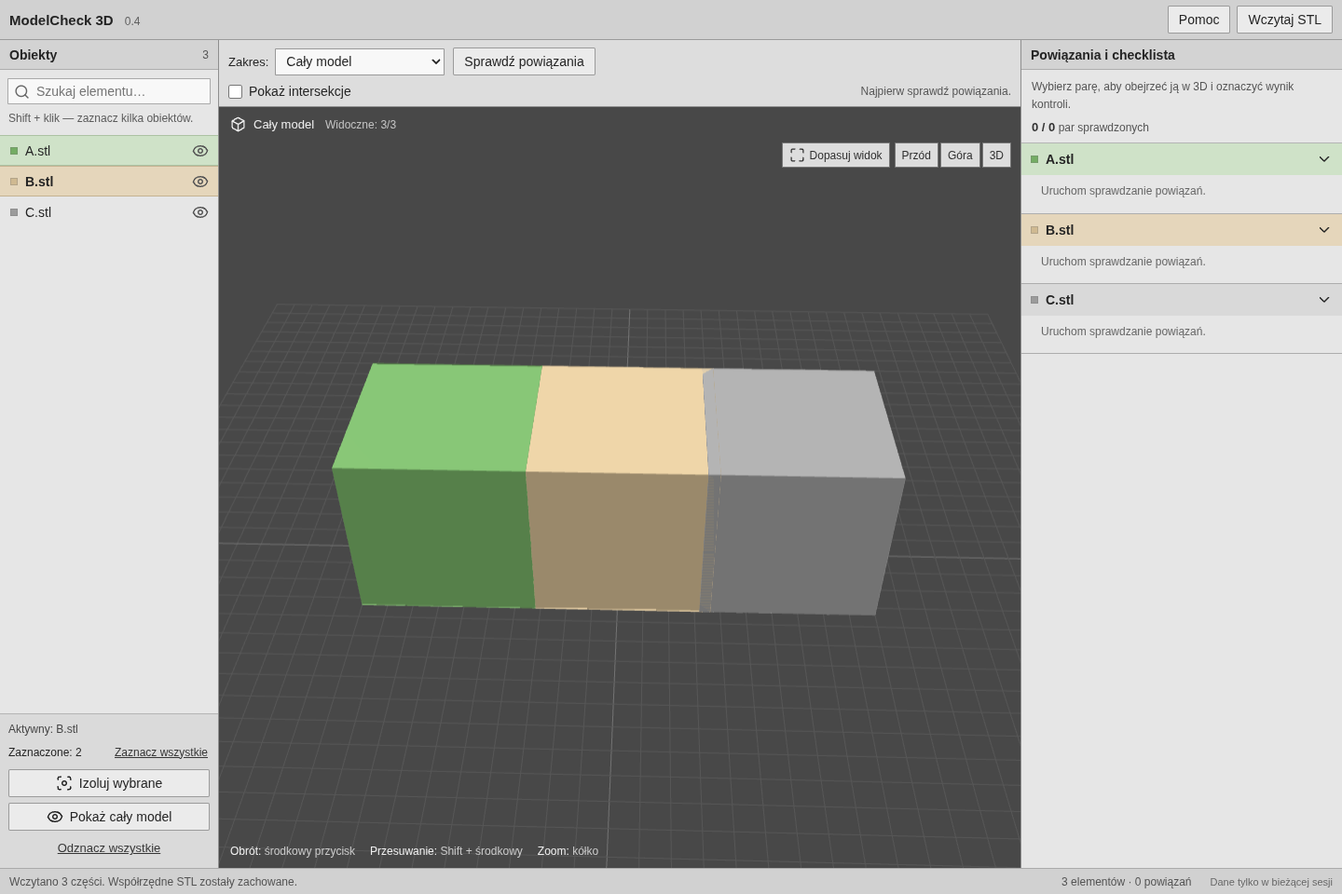
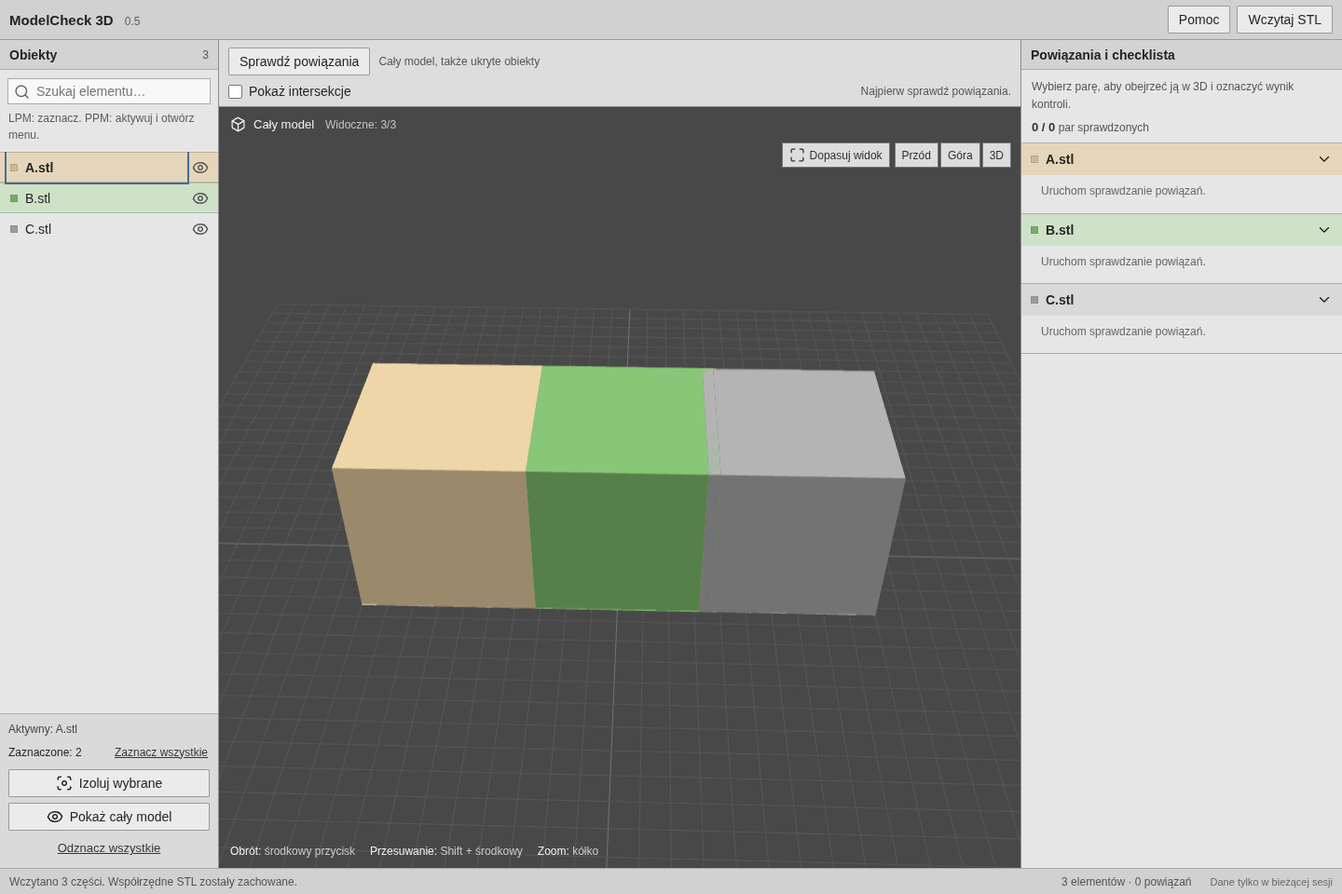
Activate objects with right click and analyze the entire model

Changed region(s): [[0.25, 0.4062, 0.5312, 0.6875], [0.0, 0.125, 0.1875, 0.25], [0.1562, 0.0312, 0.4375, 0.0938]]

diff --git a/frontend/src/App.tsx b/frontend/src/App.tsx
@@ -38,7 +38,6 @@ export default function App() {
   const activePartId = selection.activeId;
   const [isolated, setIsolated] = useState<string[] | null>(null);
   const [activePair, setActivePair] = useState<string | null>(null);
-  const [scope, setScope] = useState<'all' | 'selected'>('all');
   const [job, setJob] = useState<Job | null>(null);
   const [loading, setLoading] = useState(false);
   const [loaded, setLoaded] = useState(0);
@@ -58,7 +57,6 @@ export default function App() {
   const relevant = relations.filter(relation => relation.kind !== 'DISCONNECTED');
   const reviewed = relevant.filter(relation => relation.status !== 'TODO').length;
   const active = relations.find(relation => relation.id === activePair);
-  const overlayRelations = scope === 'all' ? relations : relations.filter(relation => relation.part_ids.every(id => selected.includes(id)));
 
   useEffect(() => {
     api<{ id: string }>('/sessions', { method: 'POST' }).then(result => setSession(result.id)).catch(err => setError(err.message));
@@ -128,7 +126,7 @@ export default function App() {
     setLoading(true); setError(''); setNotice('');
     try {
       await reviewQueue.current;
-      const result = await api<Job>(`/sessions/${session}/analysis`, { method: 'POST', headers: { 'Content-Type': 'application/json' }, body: JSON.stringify({ part_ids: scope === 'selected' ? selected : null }) });
+      const result = await api<Job>(`/sessions/${session}/analysis`, { method: 'POST', headers: { 'Content-Type': 'application/json' }, body: JSON.stringify({}) });
       // Always poll once: a small model can finish before POST returns.
       setJob({ ...result, state: 'running' });
     } catch (err) { setError((err as Error).message); }
@@ -136,19 +134,17 @@ export default function App() {
   }
   function select(id: string | null, multi: boolean) {
     setActivePair(null);
-    if (!id) { if (!multi) setSelection({ ids: [], activeId: null }); return; }
+    if (!id) { if (!multi) setSelection(previous => ({ ...previous, ids: [] })); return; }
     if (isolated && !isolated.includes(id)) setIsolated(null);
     setExpanded(previous => new Set([...previous, id]));
     requestAnimationFrame(() => document.getElementById(`check-${id}`)?.scrollIntoView({ block: 'nearest' }));
     setSelection(previous => {
-      if (!multi) return { ids: [id], activeId: id };
-      if (!previous.ids.includes(id)) return { ids: [...previous.ids, id], activeId: id };
-      const ids = previous.ids.filter(item => item !== id);
-      return { ids, activeId: previous.activeId === id ? ids.at(-1) ?? null : previous.activeId };
+      const ids = !multi ? [id] : previous.ids.includes(id) ? previous.ids.filter(item => item !== id) : [...previous.ids, id];
+      return { ...previous, ids };
     });
   }
-  function focusPair(relation: Relation, clickedId: string) {
-    setActivePair(relation.id); setSelection({ ids: relation.part_ids, activeId: clickedId }); setIsolated(relation.part_ids);
+  function focusPair(relation: Relation) {
+    setActivePair(relation.id); setSelection(previous => ({ ...previous, ids: relation.part_ids })); setIsolated(relation.part_ids);
     setParts(previous => previous.map(part => relation.part_ids.includes(part.id) ? { ...part, visible: true } : part));
     requestAnimationFrame(() => viewer.current?.fit(relation.part_ids));
   }
@@ -164,7 +160,7 @@ export default function App() {
       setRelations(previous => previous.filter(relation => !relation.part_ids.includes(id)));
       setSelection(previous => {
         const ids = previous.ids.filter(pid => pid !== id);
-        return { ids, activeId: previous.activeId === id ? ids.at(-1) ?? null : previous.activeId };
+        return { ids, activeId: previous.activeId === id ? null : previous.activeId };
       });
       setIsolated(null); setActivePair(null); setLoaded(previous => Math.max(0, previous - 1));
       setNotice('Usunięto element z modelu.');
@@ -202,7 +198,7 @@ export default function App() {
     <input type="file" ref={fileInput} accept=".stl" multiple hidden onChange={event => { if (event.target.files) void importFiles(event.target.files); }} />
 
     <header className="topbar">
-      <div className="brand"><strong>ModelCheck 3D</strong><span className="app-version">0.4</span></div>
+      <div className="brand"><strong>ModelCheck 3D</strong><span className="app-version">0.5</span></div>
       <div className="header-actions">
         <button className="button secondary help-button" onClick={() => setHelp(true)}>Pomoc</button>
         <button className="button primary" disabled={busy || !session} onClick={() => fileInput.current?.click()}>Wczytaj STL</button>
@@ -213,7 +209,7 @@ export default function App() {
       <aside className="objects panel" aria-label="Lista elementów">
         <div className="panel-heading"><h2>Obiekty</h2><span className="count">{parts.length}</span></div>
         <label className="panel-search"><Search size={17} /><input aria-label="Szukaj elementu" placeholder="Szukaj elementu…" value={search} onChange={event => setSearch(event.target.value)} /></label>
-        <p className="selection-hint">Shift + klik — zaznacz kilka obiektów.</p>
+        <p className="selection-hint">LPM: zaznacz. PPM: aktywuj i otwórz menu.</p>
         <div className="object-list">
           {!parts.length && <p className="empty-note">Wczytane pliki STL pojawią się tutaj.</p>}
           {parts.filter(part => part.name.toLowerCase().includes(search.toLowerCase())).map(part => {
@@ -221,12 +217,14 @@ export default function App() {
             return <div key={part.id} className={`object-row ${selected.includes(part.id) ? 'selected' : ''} ${activePartId === part.id ? 'active-part' : ''} ${!visible ? 'muted' : ''}`} data-selection={activePartId === part.id ? 'active' : selected.includes(part.id) ? 'selected' : 'idle'}
               onContextMenu={event => {
                 event.preventDefault();
+                setSelection(previous => ({ ...previous, activeId: part.id }));
                 setObjectMenu({ id: part.id, x: event.clientX, y: event.clientY, trigger: event.currentTarget.querySelector<HTMLButtonElement>('.object-select') });
               }}
               onKeyDown={event => {
                 if (event.key === 'ContextMenu' || (event.shiftKey && event.key === 'F10')) {
                   event.preventDefault();
                   const bounds = event.currentTarget.getBoundingClientRect();
+                  setSelection(previous => ({ ...previous, activeId: part.id }));
                   setObjectMenu({ id: part.id, x: bounds.left + 20, y: bounds.bottom, trigger: event.currentTarget.querySelector<HTMLButtonElement>('.object-select') });
                 }
               }}>
@@ -242,18 +240,17 @@ export default function App() {
         </div>
         <div className="selection-tools">
           <p className="active-object" title={parts.find(part => part.id === activePartId)?.name}>Aktywny: {parts.find(part => part.id === activePartId)?.name ?? '—'}</p>
-          <div className="selection-summary"><strong>Zaznaczone: {selected.length}</strong><button className="text-button" disabled={!parts.length} onClick={() => setSelection(previous => ({ ids: parts.map(part => part.id), activeId: previous.activeId ?? parts.at(-1)?.id ?? null }))}>Zaznacz wszystkie</button></div>
+          <div className="selection-summary"><strong>Zaznaczone: {selected.length}</strong><button className="text-button" disabled={!parts.length} onClick={() => setSelection(previous => ({ ...previous, ids: parts.map(part => part.id) }))}>Zaznacz wszystkie</button></div>
           <button className="button secondary wide" disabled={!selected.length} onClick={fitSelected}><Focus size={18} />Izoluj wybrane</button>
           <button className="button secondary wide" disabled={!parts.length} onClick={showAll}><Eye size={18} />Pokaż cały model</button>
-          {selected.length > 0 && <button className="text-button wide" onClick={() => { setSelection({ ids: [], activeId: null }); setActivePair(null); }}>Odznacz wszystkie</button>}
+          {selected.length > 0 && <button className="text-button wide" onClick={() => { setSelection(previous => ({ ...previous, ids: [] })); setActivePair(null); }}>Odznacz wszystkie</button>}
         </div>
       </aside>
 
       <section className="center" aria-label="Analiza i widok 3D">
         <section className="analysis-panel">
           <div className="analysis-controls">
-            <label className="scope-control"><span>Zakres:</span><select aria-label="Zakres sprawdzania" value={scope} disabled={busy} onChange={event => setScope(event.target.value as 'all' | 'selected')}><option value="all">Cały model</option><option value="selected">Zaznaczone ({selected.length})</option></select></label>
-            <button className="button primary analyze-button" disabled={busy || !session || (scope === 'all' ? parts.length : selected.length) < 2} onClick={() => void analyze()}>{busy && <LoaderCircle size={16} className="spin" />}{job?.state === 'running' ? 'Sprawdzanie…' : 'Sprawdź powiązania'}</button>
+            <button className="button primary analyze-button" disabled={busy || !session || parts.length < 2} onClick={() => void analyze()}>{busy && <LoaderCircle size={16} className="spin" />}{job?.state === 'running' ? 'Sprawdzanie…' : 'Sprawdź powiązania'}</button><span className="analysis-scope-note">Cały model, także ukryte obiekty</span>
           </div>
           <div className="analysis-result">
             <label className={`intersection-toggle ${intersections ? 'enabled' : ''}`}><input type="checkbox" checked={intersections} disabled={!parts.length} onChange={event => setIntersections(event.target.checked)} /><span>Pokaż intersekcje</span></label>
@@ -263,7 +260,7 @@ export default function App() {
         </section>
 
         <div className="viewport">
-          <Viewer ref={viewer} session={session} parts={parts} relations={overlayRelations} selected={selected} activePartId={activePartId} isolated={isolated} intersections={intersections} onSelect={select} onError={setError} onLoaded={setLoaded} />
+          <Viewer ref={viewer} session={session} parts={parts} relations={relations} selected={selected} activePartId={activePartId} isolated={isolated} intersections={intersections} onSelect={select} onError={setError} onLoaded={setLoaded} />
           <div className="scene-label"><Box size={17} /><strong>{isolated ? 'Wybrane elementy' : 'Cały model'}</strong><span>Widoczne: {parts.filter(part => part.visible && (!isolated || isolated.includes(part.id))).length}/{parts.length}</span></div>
           <div className="view-controls"><button title="Dopasuj kamerę do widocznych części" onClick={() => viewer.current?.fit()}><Maximize size={17} />Dopasuj widok</button><div className="axis-controls"><button title="Widok z przodu" onClick={() => viewer.current?.view('y')}>Przód</button><button title="Widok z góry" onClick={() => viewer.current?.view('z')}>Góra</button><button title="Widok perspektywiczny" onClick={() => viewer.current?.view('perspective')}>3D</button></div></div>
           {!parts.length && <div className="welcome"><h1>Brak modelu</h1><p>Wczytaj pliki STL lub przeciągnij je do okna.</p><button className="button primary" disabled={busy || !session} onClick={() => fileInput.current?.click()}>Wybierz pliki STL</button><button className="text-button" disabled={busy || !session} onClick={() => void demo()}>Wypróbuj przykład A / B / C</button></div>}
@@ -293,7 +290,7 @@ export default function App() {
                 {rows.length > 0 && <p className="relation-list-label">{rows.some(row => row.kind === 'UNCERTAIN') ? 'Powiązania i pary do weryfikacji:' : 'Powiązany z:'}</p>}
                 {rows.map(row => {
                   const other = parts.find(item => item.id === row.part_ids.find(id => id !== part.id));
-                  return <button key={row.id} className={`relation-row ${activePair === row.id ? 'active' : ''}`} onClick={() => focusPair(row, other?.id ?? row.part_ids[1])}>
+                  return <button key={row.id} className={`relation-row ${activePair === row.id ? 'active' : ''}`} onClick={() => focusPair(row)}>
                     <div className="relation-title"><strong title={other?.name}>{other?.name}{other ? duplicateName(other) : ''}</strong><span className={`relation-kind ${row.kind.toLowerCase()}`}>{labels[row.kind]}</span></div>
                     <div className={`review-status ${row.status.toLowerCase()}`}>{row.status === 'OK' ? <Check size={15} /> : row.status === 'FIX' ? <TriangleAlert size={15} /> : <span className="status-circle" />}{statusLabel[row.status]}<ChevronRight size={16} /></div>
                   </button>;
@@ -312,6 +309,6 @@ export default function App() {
     {objectMenu && parts.some(part => part.id === objectMenu.id) && <ObjectMenu menu={objectMenu} name={parts.find(part => part.id === objectMenu.id)!.name} disabled={!!busy} onClose={() => setObjectMenu(null)} onDelete={() => void removePart(objectMenu.id)} />}
     {error && <div className="error-message" role="alert"><TriangleAlert size={20} /><span>{error}</span><button className="icon-button" title="Zamknij komunikat" onClick={() => setError('')}><X size={20} /></button></div>}
     {dragging && <div className="drop-overlay"><h2>Upuść pliki STL</h2><p>Każdy plik to osobny element modelu.</p></div>}
-    {help && <div className="modal-backdrop" onClick={() => setHelp(false)}><section className="help-dialog" role="dialog" aria-modal="true" aria-label="Jak obsługiwać aplikację" onClick={event => event.stopPropagation()}><button className="icon-button close-modal" title="Zamknij pomoc" onClick={() => setHelp(false)}><X size={22} /></button><h2>Jak sprawdzić model?</h2><ol><li>Wczytaj osobne pliki STL. Elementy pozostają w oryginalnym położeniu.</li><li>Kliknij <strong>Sprawdź powiązania</strong>. Lista po prawej pokaże, które części są ze sobą powiązane.</li><li>Włącz <strong>Pokaż intersekcje</strong>, aby zobaczyć na czerwono miejsca przenikania.</li><li>Kliknij powiązaną część na checkliście. Obejrzysz parę w 3D, wybierzesz ocenę i dodasz notatkę.</li></ol><h3>Sterowanie jak w Blenderze</h3><dl><dt>Środkowy przycisk myszy</dt><dd>Obrót</dd><dt>Shift + środkowy przycisk</dt><dd>Przesuwanie</dd><dt>Kółko</dt><dd>Zoom</dd><dt>Shift + klik</dt><dd>Wybór wielu części</dd></dl><p>Analiza całego modelu obejmuje także ukryte części. Wybrany zakres porównuje tylko zaznaczone części między sobą.</p><p>Powiązanie oznacza, że części bezpośrednio się łączą. Intersekcja oznacza, że jedna część wchodzi w drugą. O poprawności decydujesz sam.</p><div className="help-note"><CircleAlert size={20} /><span>Pracujemy w milimetrach. Odświeżenie strony usuwa bieżącą sesję; zapis projektu nie jest jeszcze dostępny.</span></div><button className="button primary wide" onClick={() => setHelp(false)}>Rozumiem</button></section></div>}
+    {help && <div className="modal-backdrop" onClick={() => setHelp(false)}><section className="help-dialog" role="dialog" aria-modal="true" aria-label="Jak obsługiwać aplikację" onClick={event => event.stopPropagation()}><button className="icon-button close-modal" title="Zamknij pomoc" onClick={() => setHelp(false)}><X size={22} /></button><h2>Jak sprawdzić model?</h2><ol><li>Wczytaj osobne pliki STL. Elementy pozostają w oryginalnym położeniu.</li><li>Kliknij <strong>Sprawdź powiązania</strong>. Lista po prawej pokaże, które części są ze sobą powiązane.</li><li>Włącz <strong>Pokaż intersekcje</strong>, aby zobaczyć na czerwono miejsca przenikania.</li><li>Kliknij powiązaną część na checkliście. Obejrzysz parę w 3D, wybierzesz ocenę i dodasz notatkę.</li></ol><h3>Sterowanie jak w Blenderze</h3><dl><dt>Środkowy przycisk myszy</dt><dd>Obrót</dd><dt>Shift + środkowy przycisk</dt><dd>Przesuwanie</dd><dt>Kółko</dt><dd>Zoom</dd><dt>Shift + klik</dt><dd>Wybór wielu części</dd></dl><p>Analiza zawsze obejmuje wszystkie wczytane części, także ukryte. Zaznaczenie i izolacja zmieniają tylko widok.</p><p>LPM zaznacza części. PPM na lewej liście aktywuje obiekt i oznacza go beżowo także w 3D. Inne zaznaczone części są zielone, pozostałe szare.</p><p>Powiązanie oznacza, że części bezpośrednio się łączą. Intersekcja oznacza, że jedna część wchodzi w drugą. O poprawności decydujesz sam.</p><div className="help-note"><CircleAlert size={20} /><span>Pracujemy w milimetrach. Odświeżenie strony usuwa bieżącą sesję; zapis projektu nie jest jeszcze dostępny.</span></div><button className="button primary wide" onClick={() => setHelp(false)}>Rozumiem</button></section></div>}
   </div>;
 }

diff --git a/frontend/tests/workflow.spec.ts b/frontend/tests/workflow.spec.ts
@@ -1,6 +1,6 @@
 import { test, expect } from '@playwright/test';
 
-test('model ABC: render, analyze, inspect, review and scope', async ({ page }, testInfo) => {
+test('model ABC: full analysis and independent viewport selection and list activation', async ({ page }, testInfo) => {
   const errors: string[] = [];
   page.on('pageerror', error => errors.push(error.message));
   await page.goto('/');
@@ -45,10 +45,15 @@ test('model ABC: render, analyze, inspect, review and scope', async ({ page }, t
   await a.locator('.object-select').click();
   await b.locator('.object-select').click({ modifiers: ['Shift'] });
   await expect(a).toHaveAttribute('data-selection', 'selected');
-  await expect(b).toHaveAttribute('data-selection', 'active');
+  await expect(b).toHaveAttribute('data-selection', 'selected');
+  await expect(page.locator('.object-row[data-selection=active]')).toHaveCount(0);
+  await a.click({ button: 'right' });
+  await page.keyboard.press('Escape');
+  await expect(a).toHaveAttribute('data-selection', 'active');
+  await expect(b).toHaveAttribute('data-selection', 'selected');
   await expect(c).toHaveAttribute('data-selection', 'idle');
-  await expect(a.locator('.part-swatch')).toHaveCSS('background-color', 'rgb(116, 172, 100)');
-  await expect(b.locator('.part-swatch')).toHaveCSS('background-color', 'rgb(207, 185, 145)');
+  await expect(a.locator('.part-swatch')).toHaveCSS('background-color', 'rgb(207, 185, 145)');
+  await expect(b.locator('.part-swatch')).toHaveCSS('background-color', 'rgb(116, 172, 100)');
   await expect(c.locator('.part-swatch')).toHaveCSS('background-color', 'rgb(155, 155, 155)');
   await page.screenshot({ path: testInfo.outputPath('selection.png') });
   await page.getByRole('button', { name: 'Sprawdź powiązania' }).click();
@@ -85,11 +90,27 @@ test('model ABC: render, analyze, inspect, review and scope', async ({ page }, t
   // Hidden A must still be included in the full analysis.
   await expect(page.locator('.statusbar')).toContainText('Sprawdzono par: 3');
   await expect(page.locator('.review-progress strong')).toHaveText('1 / 2');
-  await page.getByLabel('Zakres sprawdzania', { exact: true }).selectOption('selected');
+  await expect(page.getByLabel('Zakres sprawdzania', { exact: true })).toHaveCount(0);
   await page.getByRole('button', { name: 'Sprawdź powiązania' }).click();
-  await expect(page.getByRole('status')).toContainText('Sprawdzono par: 1');
+  await expect(page.getByRole('status')).toContainText('Sprawdzono par: 3');
   await expect(page.locator('.relation-row')).toHaveCount(4);
   await expect(page.getByRole('checkbox')).toHaveCount(1);
+  // Even with only one selected element, the action still checks all three pairs.
+  await b.locator('.object-select').click();
+  await expect(a).toHaveAttribute('data-selection', 'active');
+  await expect(b).toHaveAttribute('data-selection', 'selected');
+  await expect(page.locator('.object-row.selected')).toHaveCount(1);
+  await page.getByRole('button', { name: 'Sprawdź powiązania' }).click();
+  await expect(page.getByRole('status')).toContainText('Sprawdzono par: 3');
+  // A click on the actual 3D object selects it without changing the right-click activation.
+  await page.getByRole('button', { name: 'Izoluj wybrane' }).click();
+  await page.getByRole('button', { name: 'Odznacz wszystkie', exact: true }).click();
+  await expect(page.locator('.object-row.selected')).toHaveCount(0);
+  const objectCanvasBounds = (await canvas.boundingBox())!;
+  await canvas.click({ position: { x: objectCanvasBounds.width / 2, y: objectCanvasBounds.height / 2 } });
+  await expect(b.locator('.object-select')).toHaveAttribute('aria-pressed', 'true');
+  await expect(b).toHaveAttribute('data-selection', 'selected');
+  await expect(a).toHaveAttribute('data-selection', 'active');
   expect(errors).toEqual([]);
 });
 
@@ -118,10 +139,10 @@ test('separated parts are not proposed as related; all elements remain on checkl
   const left = page.locator('.object-row').filter({ hasText: 'left.stl' });
   const right = page.locator('.object-row').filter({ hasText: 'right.stl' });
   await expect(left).toHaveAttribute('data-selection', 'selected');
-  await expect(right).toHaveAttribute('data-selection', 'active');
+  await expect(right).toHaveAttribute('data-selection', 'selected');
   await left.locator('.object-select').click({ modifiers: ['Shift'] });
   await expect(left).toHaveAttribute('data-selection', 'idle');
-  await expect(right).toHaveAttribute('data-selection', 'active');
+  await expect(right).toHaveAttribute('data-selection', 'selected');
   await right.locator('.object-select').click({ modifiers: ['Shift'] });
   await expect(page.locator('.object-row[data-selection=active]')).toHaveCount(0);
   await expect(page.locator('.object-row[data-selection=idle]')).toHaveCount(3);
@@ -130,9 +151,9 @@ test('separated parts are not proposed as related; all elements remain on checkl
   await page.getByRole('button', { name: 'Izoluj wybrane' }).click();
   await expect(page.locator('.scene-label')).toContainText('Widoczne: 2/3');
   await page.getByRole('button', { name: 'Pokaż cały model', exact: true }).click();
-  await page.getByLabel('Zakres sprawdzania', { exact: true }).selectOption('selected');
+  await expect(page.getByLabel('Zakres sprawdzania', { exact: true })).toHaveCount(0);
   await page.getByRole('button', { name: 'Sprawdź powiązania' }).click();
-  await expect(page.getByRole('status')).toContainText('Sprawdzono par: 1');
+  await expect(page.getByRole('status')).toContainText('Sprawdzono par: 3');
   // The object list has a name and a visibility button only, with no inline delete action.
   await expect(page.locator('.object-row button')).toHaveCount(6);
   await expect(page.locator('.object-row').getByTitle(/^Usuń/)).toHaveCount(0);
@@ -159,12 +180,13 @@ test('separated parts are not proposed as related; all elements remain on checkl
   await expect(page.getByRole('menu')).toHaveCount(0);
   await expect(page.locator('.object-row')).toHaveCount(2);
   await expect(page.locator('.check-part')).toHaveCount(2);
-  await expect(right).toHaveAttribute('data-selection', 'active');
-  // Deleting the active object promotes another selected object; clearing leaves no active object.
+  await expect(right).toHaveAttribute('data-selection', 'selected');
+  // Only right-click activates; deleting the active object does not activate another one.
   await right.click({ button: 'right' });
   await page.getByRole('menu', { name: 'Opcje elementu right.stl' }).getByRole('menuitem', { name: 'Usuń', exact: true }).click();
   await expect(page.locator('.object-row')).toHaveCount(1);
-  await expect(left).toHaveAttribute('data-selection', 'active');
+  await expect(left).toHaveAttribute('data-selection', 'selected');
+  await expect(page.locator('.object-row[data-selection=active]')).toHaveCount(0);
   await page.getByRole('button', { name: 'Odznacz wszystkie', exact: true }).click();
   await expect(left).toHaveAttribute('data-selection', 'idle');
 });

diff --git a/frontend/src/style.css b/frontend/src/style.css
@@ -63,10 +63,8 @@ h2 { font-size: 14px; font-weight: 600; }
 .center { display: flex; flex-direction: column; min-width: 0; min-height: 0; }
 .analysis-panel { padding: 8px 10px; background: #ddd; border-bottom: 1px solid #8e8e8e; flex-shrink: 0; }
 .analysis-controls { display: flex; gap: 9px; align-items: center; flex-wrap: wrap; }
-.scope-control { display: flex; gap: 7px; align-items: center; }
-.scope-control > span { font-size: 13px; }
 select { background: #f8f8f8; border: 1px solid #999; border-radius: 1px; min-height: 29px; padding: 3px 23px 3px 7px; }
-.scope-control select { width: 182px; }
+.analysis-scope-note { font-size: 12px; color: #565656; }
 .analysis-result { margin-top: 9px; display: flex; align-items: center; justify-content: space-between; gap: 9px; flex-wrap: wrap; }
 .intersection-toggle { display: inline-flex; gap: 7px; align-items: center; cursor: pointer; }
 input[type=checkbox] { width: 15px; height: 15px; margin: 0; accent-color: #5b5b5b; }
@@ -161,7 +159,6 @@ progress { display: block; width: 100%; height: 7px; margin-top: 8px; accent-col
 @media (max-width: 1150px) {
   .workspace { grid-template-columns: 210px minmax(380px, 1fr) 320px; }
   .analysis-controls { gap: 6px; }
-  .scope-control select { width: 148px; }
   .analyze-button { padding: 5px 7px; font-size: 13px; }
   .session-note { display: none; }
   .camera-hint { gap: 5px 10px; font-size: 11px; }

diff --git a/backend/tests/test_api.py b/backend/tests/test_api.py
@@ -39,13 +39,13 @@ def test_demo_analysis_review_isolation_and_delete():
     data = client.get(path + '/intersection')
     mesh = trimesh.load(io.BytesIO(data.content), file_type='stl')
     assert mesh.volume == pytest.approx(32)
-    selected = analyze(sid, {'part_ids': [parts[1]['id'], parts[2]['id']]})
-    assert selected['job']['total'] == 1
-    row = next(row for row in selected['relations'] if row['id'] == intersection['id'])
+    reanalyzed = analyze(sid)
+    assert reanalyzed['job']['total'] == 3
+    row = next(row for row in reanalyzed['relations'] if row['id'] == intersection['id'])
     assert row['note'] == 'Zmniejszyć przenikanie'
     assert row['status'] == 'FIX'
-    # Results of unrelated pairs are retained; each still has a single shared status.
-    assert len(selected['relations']) == 3
+    # A full re-analysis retains one shared review record for each unique pair.
+    assert len(reanalyzed['relations']) == 3
     assert client.delete(f"/api/sessions/{sid}/parts/{parts[2]['id']}").status_code == 200
     assert len(client.get(f'/api/sessions/{sid}/analysis').json()['relations']) == 1
 
@@ -69,7 +69,7 @@ def test_invalid_selection_and_removed_analysis_setting():
     sid = session()
     assert client.post(f'/api/sessions/{sid}/analysis', json={}).status_code == 400
     assert client.post(f'/api/sessions/{sid}/analysis', json={'gap': -1}).status_code == 422
-    assert client.post(f'/api/sessions/{sid}/analysis', json={'part_ids': ['unknown', 'other']}).status_code == 404
+    assert client.post(f'/api/sessions/{sid}/analysis', json={'part_ids': ['unknown', 'other']}).status_code == 422
     assert client.get('/api/sessions/missing/analysis').status_code == 404
 
 

diff --git a/backend/main.py b/backend/main.py
@@ -14,7 +14,7 @@ from starlette.concurrency import run_in_threadpool
 from pydantic import BaseModel, Field, ConfigDict
 from backend.geometry import prepare, analyze_pair, CONNECTION_EPS
 
-app = FastAPI(title='ModelCheck 3D', version='0.4.0')
+app = FastAPI(title='ModelCheck 3D', version='0.5.0')
 executor = ThreadPoolExecutor(max_workers=1)
 sessions = {}
 lock = RLock()
@@ -22,7 +22,6 @@ LIMIT = 100 * 1024 * 1024
 
 
 class AnalysisRequest(BaseModel):
-    part_ids: list[str] | None = None
     model_config = ConfigDict(extra='forbid')
 
 
@@ -175,11 +174,9 @@ def run_analysis(session, ids, job):
 def start_analysis(sid: str, request: AnalysisRequest):
     with lock:
         session = session_for(sid); idle(session)
-        ids = sorted(session['parts']) if request.part_ids is None else sorted(set(request.part_ids))
+        ids = sorted(session['parts'])
         if len(ids) < 2:
-            raise HTTPException(400, 'Wybierz co najmniej dwie części.')
-        if any(pid not in session['parts'] for pid in ids):
-            raise HTTPException(404, 'Jedna z części nie istnieje.')
+            raise HTTPException(400, 'Wczytaj co najmniej dwie części.')
         session['busy'] = True
         job = {'id': uuid4().hex, 'state': 'running', 'completed': 0, 'total': len(ids) * (len(ids)-1)//2,
                'seconds': 0, '_start': time.monotonic(), 'error': None}

diff --git a/README.md b/README.md
@@ -1,6 +1,6 @@
-# ModelCheck 3D — prototyp 0.4
+# ModelCheck 3D — prototyp 0.5
 
-Lokalna aplikacja do sprawdzania **powiązań części STL i intersekcji**. Widok 3D działa podobnie do Blendera, a checklista zawiera wszystkie wczytane elementy. Interfejs jest prostym edytorem z systemową czcionką, szarymi panelami i płaskimi przyciskami. Numer wersji 0.4 jest widoczny w nagłówku. Usunięto osobne kategorie styków i szczelin, ich znaczniki oraz próg odległości.
+Lokalna aplikacja do sprawdzania **powiązań części STL i intersekcji**. Widok 3D działa podobnie do Blendera, a checklista zawiera wszystkie wczytane elementy. Interfejs jest prostym edytorem z systemową czcionką, szarymi panelami i płaskimi przyciskami. Numer wersji 0.5 jest widoczny w nagłówku. Usunięto osobne kategorie styków i szczelin, ich znaczniki oraz próg odległości.
 
 ![Uproszczony interfejs: lista elementów, model 3D i powiązania części](docs/modelcheck3d.png)
 
@@ -13,7 +13,7 @@ Wymagane: **Python 3.12, 64-bit** z launcherem `py` oraz **Node.js 22 lub 24** z
 3. Uruchom `start.cmd`. Aplikacja otworzy się w przeglądarce.
 4. Pozostaw okno serwera otwarte. Ctrl+C kończy jego pracę.
 
-**Aktualizacja ze starszej wersji:** zakończ poprzedni serwer klawiszami Ctrl+C w jego oknie, rozpakuj nowy ZIP do osobnego folderu i uruchom w nim `setup.cmd`, a potem `start.cmd`. W nagłówku otwartej aplikacji powinno być **0.4**. Stary działający proces nie wczyta automatycznie nowego silnika analizy.
+**Aktualizacja ze starszej wersji:** zakończ poprzedni serwer klawiszami Ctrl+C w jego oknie, rozpakuj nowy ZIP do osobnego folderu i uruchom w nim `setup.cmd`, a potem `start.cmd`. W nagłówku otwartej aplikacji powinno być **0.5**. Stary działający proces nie wczyta automatycznie nowego silnika analizy.
 
 Aplikacja po instalacji działa bez Internetu; czcionki też są lokalne. Serwer nasłuchuje tylko na tym komputerze, domyślnie na porcie 8000. Gdy port jest zajęty, uruchom `.venv\Scripts\python.exe run.py --port 8001`.
 
@@ -32,30 +32,28 @@ Pakiety silnika są dostępne dla Windows / Python 3.12 x64. Bieżący prototyp 
 ## Jak sprawdzić model
 
 1. **Wczytaj STL** — wybierz osobne pliki części lub przeciągnij je do okna. Po lewej zobaczysz wszystkie elementy, pośrodku złożony model. Pliki zachowują swoje współrzędne i skalę. Przyjmujemy 1 jednostkę STL = 1 mm.
-2. **Sprawdź powiązania** — wybierz zakres **Cały model** albo **Zaznaczone**. Pierwszy obejmuje również ukryte części. Drugi porównuje zaznaczone elementy wyłącznie między sobą.
+2. **Sprawdź powiązania** — analiza zawsze sprawdza wszystkie wczytane części, również ukryte. Nie ma wyboru zakresu ani analizy samych zaznaczonych elementów.
 3. **Powiązania i checklista** — przy każdym elemencie znajdziesz listę „Powiązany z”. Powiązanie oznacza bezpośrednie dotykanie się części lub ich przenikanie. Element bez powiązań też pozostaje na checkliście. Samo bliskie położenie oddzielonych części nie tworzy powiązania.
-4. **Pokaż intersekcje** — włącz, gdy chcesz obejrzeć czerwone regiony przenikania. Domyślnie są wyłączone. Podświetlamy wspólną objętość, a nie całe części. Otaczające elementy stają się przezroczyste, aby odsłonić wewnętrzne obszary. W zakresie „Zaznaczone” pokazywane są tylko wyniki dla wybranych części.
+4. **Pokaż intersekcje** — włącz, gdy chcesz obejrzeć czerwone regiony przenikania. Domyślnie są wyłączone. Podświetlamy wspólną objętość, a nie całe części. Otaczające elementy stają się przezroczyste, aby odsłonić wewnętrzne obszary. Zaznaczenie nie ogranicza wyników intersekcji; podświetlane są wyniki dla wszystkich widocznych części.
 5. **Wybierz parę na checkliście** — pozostałe części zostaną ukryte, a kamera dopasowana do tej pary. Wybierz ręcznie **Do sprawdzenia / OK / Wymaga poprawki** i dodaj notatkę. Zmiana notatki jest stosowana po wyjściu z pola. Status i notatka są wspólne dla obu elementów; wynik analizy nie ustawia automatycznie „OK”.
 6. **Usuń element** — kliknij jego wiersz na liście obiektów prawym przyciskiem i wybierz **Usuń**. Przy nazwie pozostaje tylko oczko widoczności. Menu można też otworzyć klawiszami Shift+F10; Escape lub kliknięcie poza menu zamyka je bez usuwania. Usunięcie dotyczy wskazanego elementu, także gdy zaznaczonych jest kilka części. W czasie przetwarzania polecenie jest niedostępne.
 7. **Pokaż cały model** — przywróć wszystkie części. Wybór elementu na liście lub w 3D odsłania jego pozycję na checkliście. Nazwy powiązanych części są sortowane alfabetycznie z uwzględnieniem numerów.
 
-Analiza podzbioru aktualizuje tylko jego pary. Pozostałe wyniki i ręczne oceny pozostają; niesprawdzone pary są wyraźnie oznaczone jako nieprzeanalizowane. Po dodaniu części ponownie uruchom sprawdzanie, aby znaleźć ich powiązania.
+Każda analiza sprawdza wszystkie unikalne pary. Przy niezmienionych plikach zachowuje ręczne oceny i notatki. Zaznaczanie, aktywacja i izolacja zmieniają wyłącznie obsługę widoku, a nie zakres analizy. Po dodaniu części ponownie uruchom sprawdzanie, aby znaleźć ich powiązania.
 
 W pustym widoku dostępny jest przykład A/B/C: A łączy się z B, B z C, a B i C mają też intersekcję. A i C są rozdzielone. Możesz od razu użyć własnych STL.
 
-## Kolory elementów
+## Zaznaczanie i aktywacja
 
-| Stan | Kolor |
-| --- | --- |
-| Niezaznaczony i nieaktywny | Szary |
-| Zaznaczony, ale nieaktywny | Zielony |
-| Aktywny | Beżowy |
+**Viewport 3D i checklista:** nieaktywne i niezaznaczone części są szare, nieaktywne zaznaczone są zielone, aktywna część jest beżowa. Lewy przycisk zaznacza; Shift + klik dodaje lub odejmuje części. Kliknięcie modelu w 3D nie aktywuje obiektu na liście.
 
-Aktywny jest ostatnio wskazany element. Należy do zaznaczenia; pozostałe zaznaczone części są zielone. Shift + klik dodaje lub usuwa element z zaznaczenia. Jeśli odznaczysz lub usuniesz aktywną część, inna zaznaczona część staje się aktywna. Odznaczenie wszystkich pozostawia cały model szary.
+**Lista obiektów po lewej:** prawy przycisk ustawia aktywny obiekt i otwiera menu „Usuń”. Aktywny wiersz i model 3D tego obiektu są beżowe. Samo aktywowanie nie dodaje ani nie usuwa części z zaznaczenia. Lewy przycisk na liście zaznacza na zielono, ale nie zmienia aktywnego obiektu. Shift+F10 jest klawiaturowym odpowiednikiem prawego przycisku.
 
-Te same kolory obowiązują w widoku 3D, na liście obiektów i przy elementach checklisty. Intersekcje są nadal czerwone i widoczne tylko po włączeniu podświetlenia.
+Aktywny obiekt pozostaje aktywny do wskazania innego prawym przyciskiem lub usunięcia. Odznaczenie wszystkich nie zmienia aktywnego obiektu. Usunięcie aktywnego obiektu nie aktywuje automatycznie kolejnego. Kliknięcie aktywnego modelu lewym przyciskiem nie usuwa jego aktywacji — pozostaje beżowy.
 
-![Szary element niezaznaczony, zielony zaznaczony i beżowy aktywny](docs/selection.png)
+Intersekcje nadal są czerwone i pojawiają się po włączeniu „Pokaż intersekcje”.
+
+![Zielone zaznaczenie i beżowy obiekt aktywowany prawym przyciskiem](docs/selection.png)
 
 ## Sterowanie
 
@@ -67,7 +65,7 @@ Te same kolory obowiązują w widoku 3D, na liście obiektów i przy elementach 
 | Klik w model lub nazwę | Wybór elementu |
 | Shift / Ctrl + klik | Wiele elementów |
 | Ikona oka | Ukrywanie i pokazywanie części |
-| Prawy przycisk na elemencie → Usuń | Usunięcie elementu z bieżącego modelu |
+| Prawy przycisk na liście | Aktywacja obiektu i menu „Usuń” |
 | Izoluj wybrane | Widok samych zaznaczonych części |
 | Dopasuj widok / dwuklik | Dopasowanie kamery |
 
@@ -115,4 +113,4 @@ npx playwright install chromium
 npm run test:e2e
 ```
 
-Możesz wskazać istniejący Chromium zmienną `CHROMIUM_PATH`. Testy obejmują analizę powiązań i intersekcji, zawieranie, wiele regionów, odseparowane i nieprawidłowe siatki, zachowanie współrzędnych, import, kamerę, izolację, checklistę, wspólne oceny par i zakres sprawdzania.
+Możesz wskazać istniejący Chromium zmienną `CHROMIUM_PATH`. Testy obejmują analizę powiązań i intersekcji, zawieranie, wiele regionów, odseparowane i nieprawidłowe siatki, zachowanie współrzędnych, import, kamerę, izolację, checklistę, wspólne oceny par, niezależną aktywację oraz analizę całego modelu.
